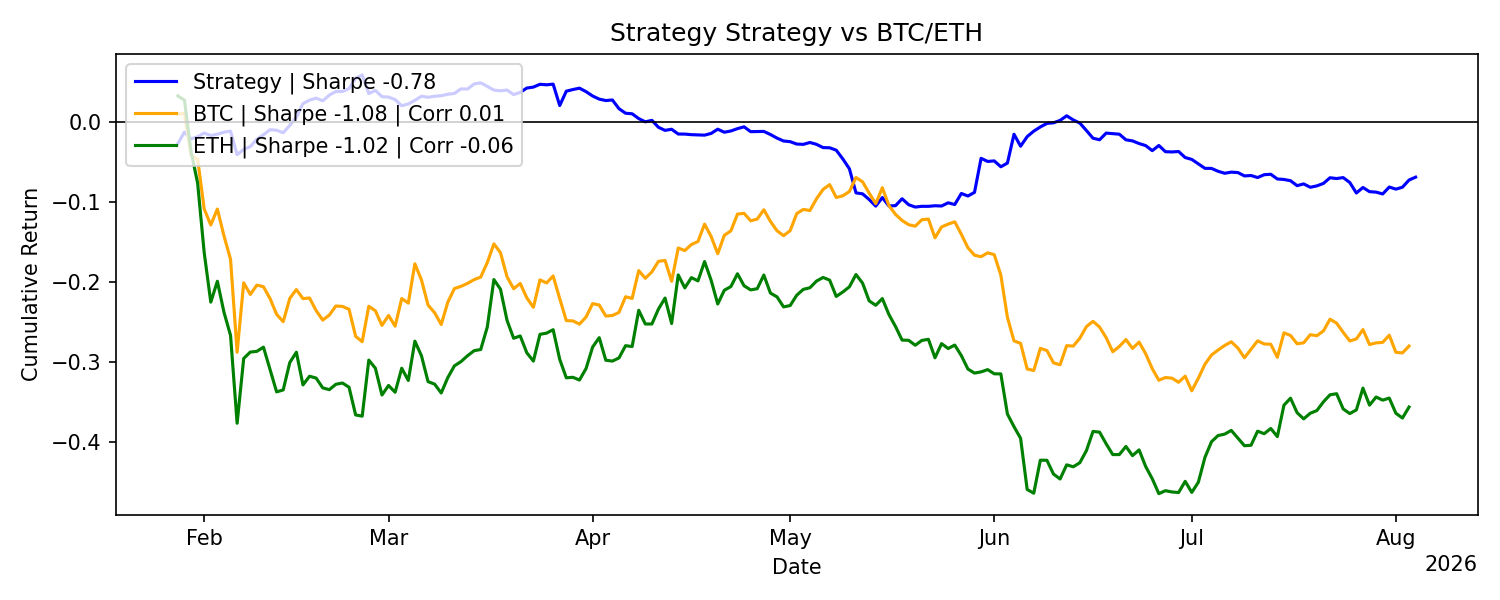
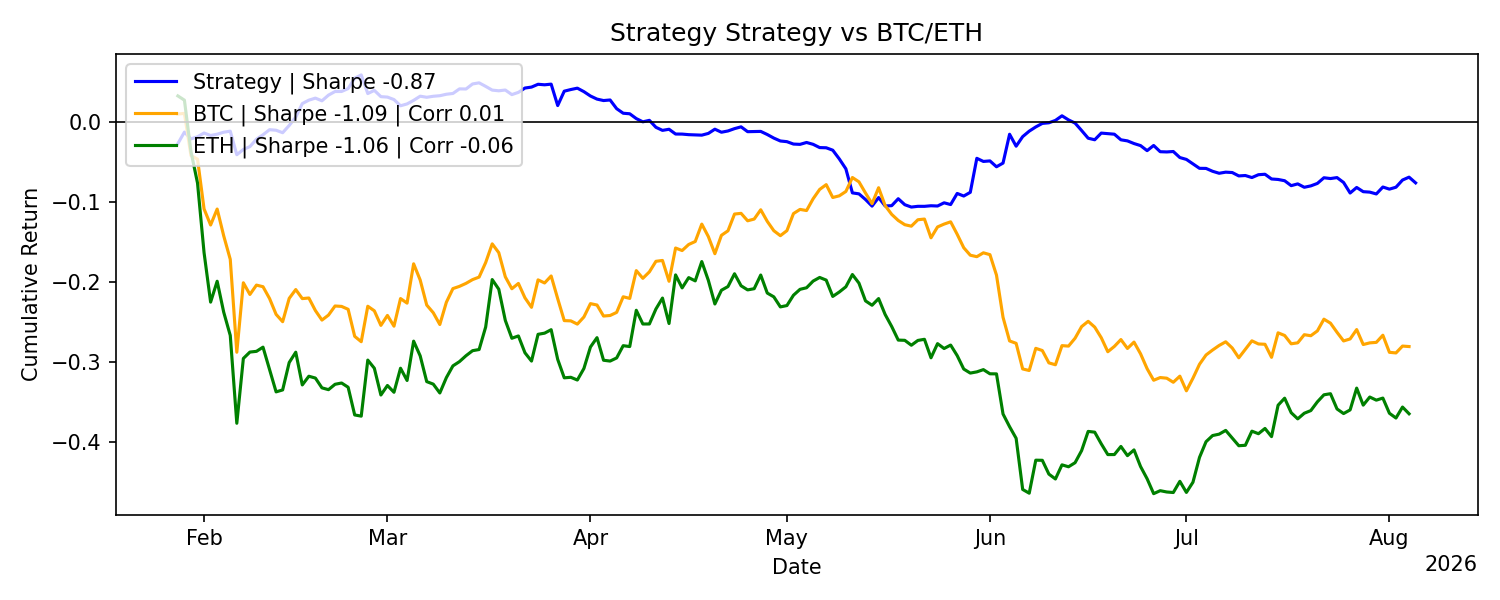
Update reports: 2026-08-05 00:00:13 UTC

diff --git a/README.md b/README.md
@@ -24,26 +24,26 @@ All results are live and reported net of transaction costs and slippage.
 <!-- METRICS_START -->
 | metric                       |        values |
 |:-----------------------------|--------------:|
-| Number of Observations       | 189           |
-| Mean Daily Return            |  -0.000342496 |
-| Daily Volatility             |   0.00841509  |
-| Mean Annualized Return       |  -0.125011    |
-| Annualized Volatility        |   0.16077     |
+| Number of Observations       | 190           |
+| Mean Daily Return            |  -0.000381139 |
+| Daily Volatility             |   0.00840968  |
+| Mean Annualized Return       |  -0.139116    |
+| Annualized Volatility        |   0.160667    |
 | Maximum Drawdown             |  -0.156146    |
-| Max Drawdown Duration (Days) | 160           |
-| Sharpe                       |  -0.777577    |
-| Sortino                      |  -1.07355     |
-| Calmar                       |  -0.800604    |
-| CAGR                         |  -0.128774    |
-| Skewness                     |   0.662391    |
-| Excess Kurtosis              |   8.61423     |
-| Win Rate                     |   0.470899    |
-| Profit Factor                |   0.879896    |
-| VaR 1%                       |  -0.0272297   |
+| Max Drawdown Duration (Days) | 161           |
+| Sharpe                       |  -0.865864    |
+| Sortino                      |  -1.19985     |
+| Calmar                       |  -0.890933    |
+| CAGR                         |  -0.140967    |
+| Skewness                     |   0.670494    |
+| Excess Kurtosis              |   8.5963      |
+| Win Rate                     |   0.468421    |
+| Profit Factor                |   0.867527    |
+| VaR 1%                       |  -0.0272      |
 | CVaR 1%                      |  -0.030925    |
-| VaR 5%                       |  -0.0110338   |
+| VaR 5%                       |  -0.0109966   |
 | CVaR 5%                      |  -0.0201626   |
-| Correlation with BTC         |   0.0113417   |
+| Correlation with BTC         |   0.0113975   |
 <!-- METRICS_END -->
 
 ## Sharpe Statistics
@@ -55,14 +55,14 @@ All results are live and reported net of transaction costs and slippage.
 | metric                     |   values |
 |:---------------------------|---------:|
 | alpha                      |   0.05   |
-| t-statistic                |  -0.5595 |
-| p-value                    |   0.5765 |
-| Daily Sharpe Ratio         |  -0.0407 |
-| Annualized Sharpe Ratio    |  -0.7776 |
-| Sharpe Standard Error      |   1.415  |
-| C.I. Lower Bound           |  -3.551  |
-| C.I. Upper Bound           |   1.9959 |
-| Bootstrap C.I. Lower Bound |  -3.7879 |
-| Bootstrap C.I. Upper Bound |   2.6337 |
+| t-statistic                |  -0.6247 |
+| p-value                    |   0.5329 |
+| Daily Sharpe Ratio         |  -0.0453 |
+| Annualized Sharpe Ratio    |  -0.8659 |
+| Sharpe Standard Error      |   1.4144 |
+| C.I. Lower Bound           |  -3.638  |
+| C.I. Upper Bound           |   1.9062 |
+| Bootstrap C.I. Lower Bound |  -3.9489 |
+| Bootstrap C.I. Upper Bound |   2.5105 |
 <!-- SHARPE_END -->
 
